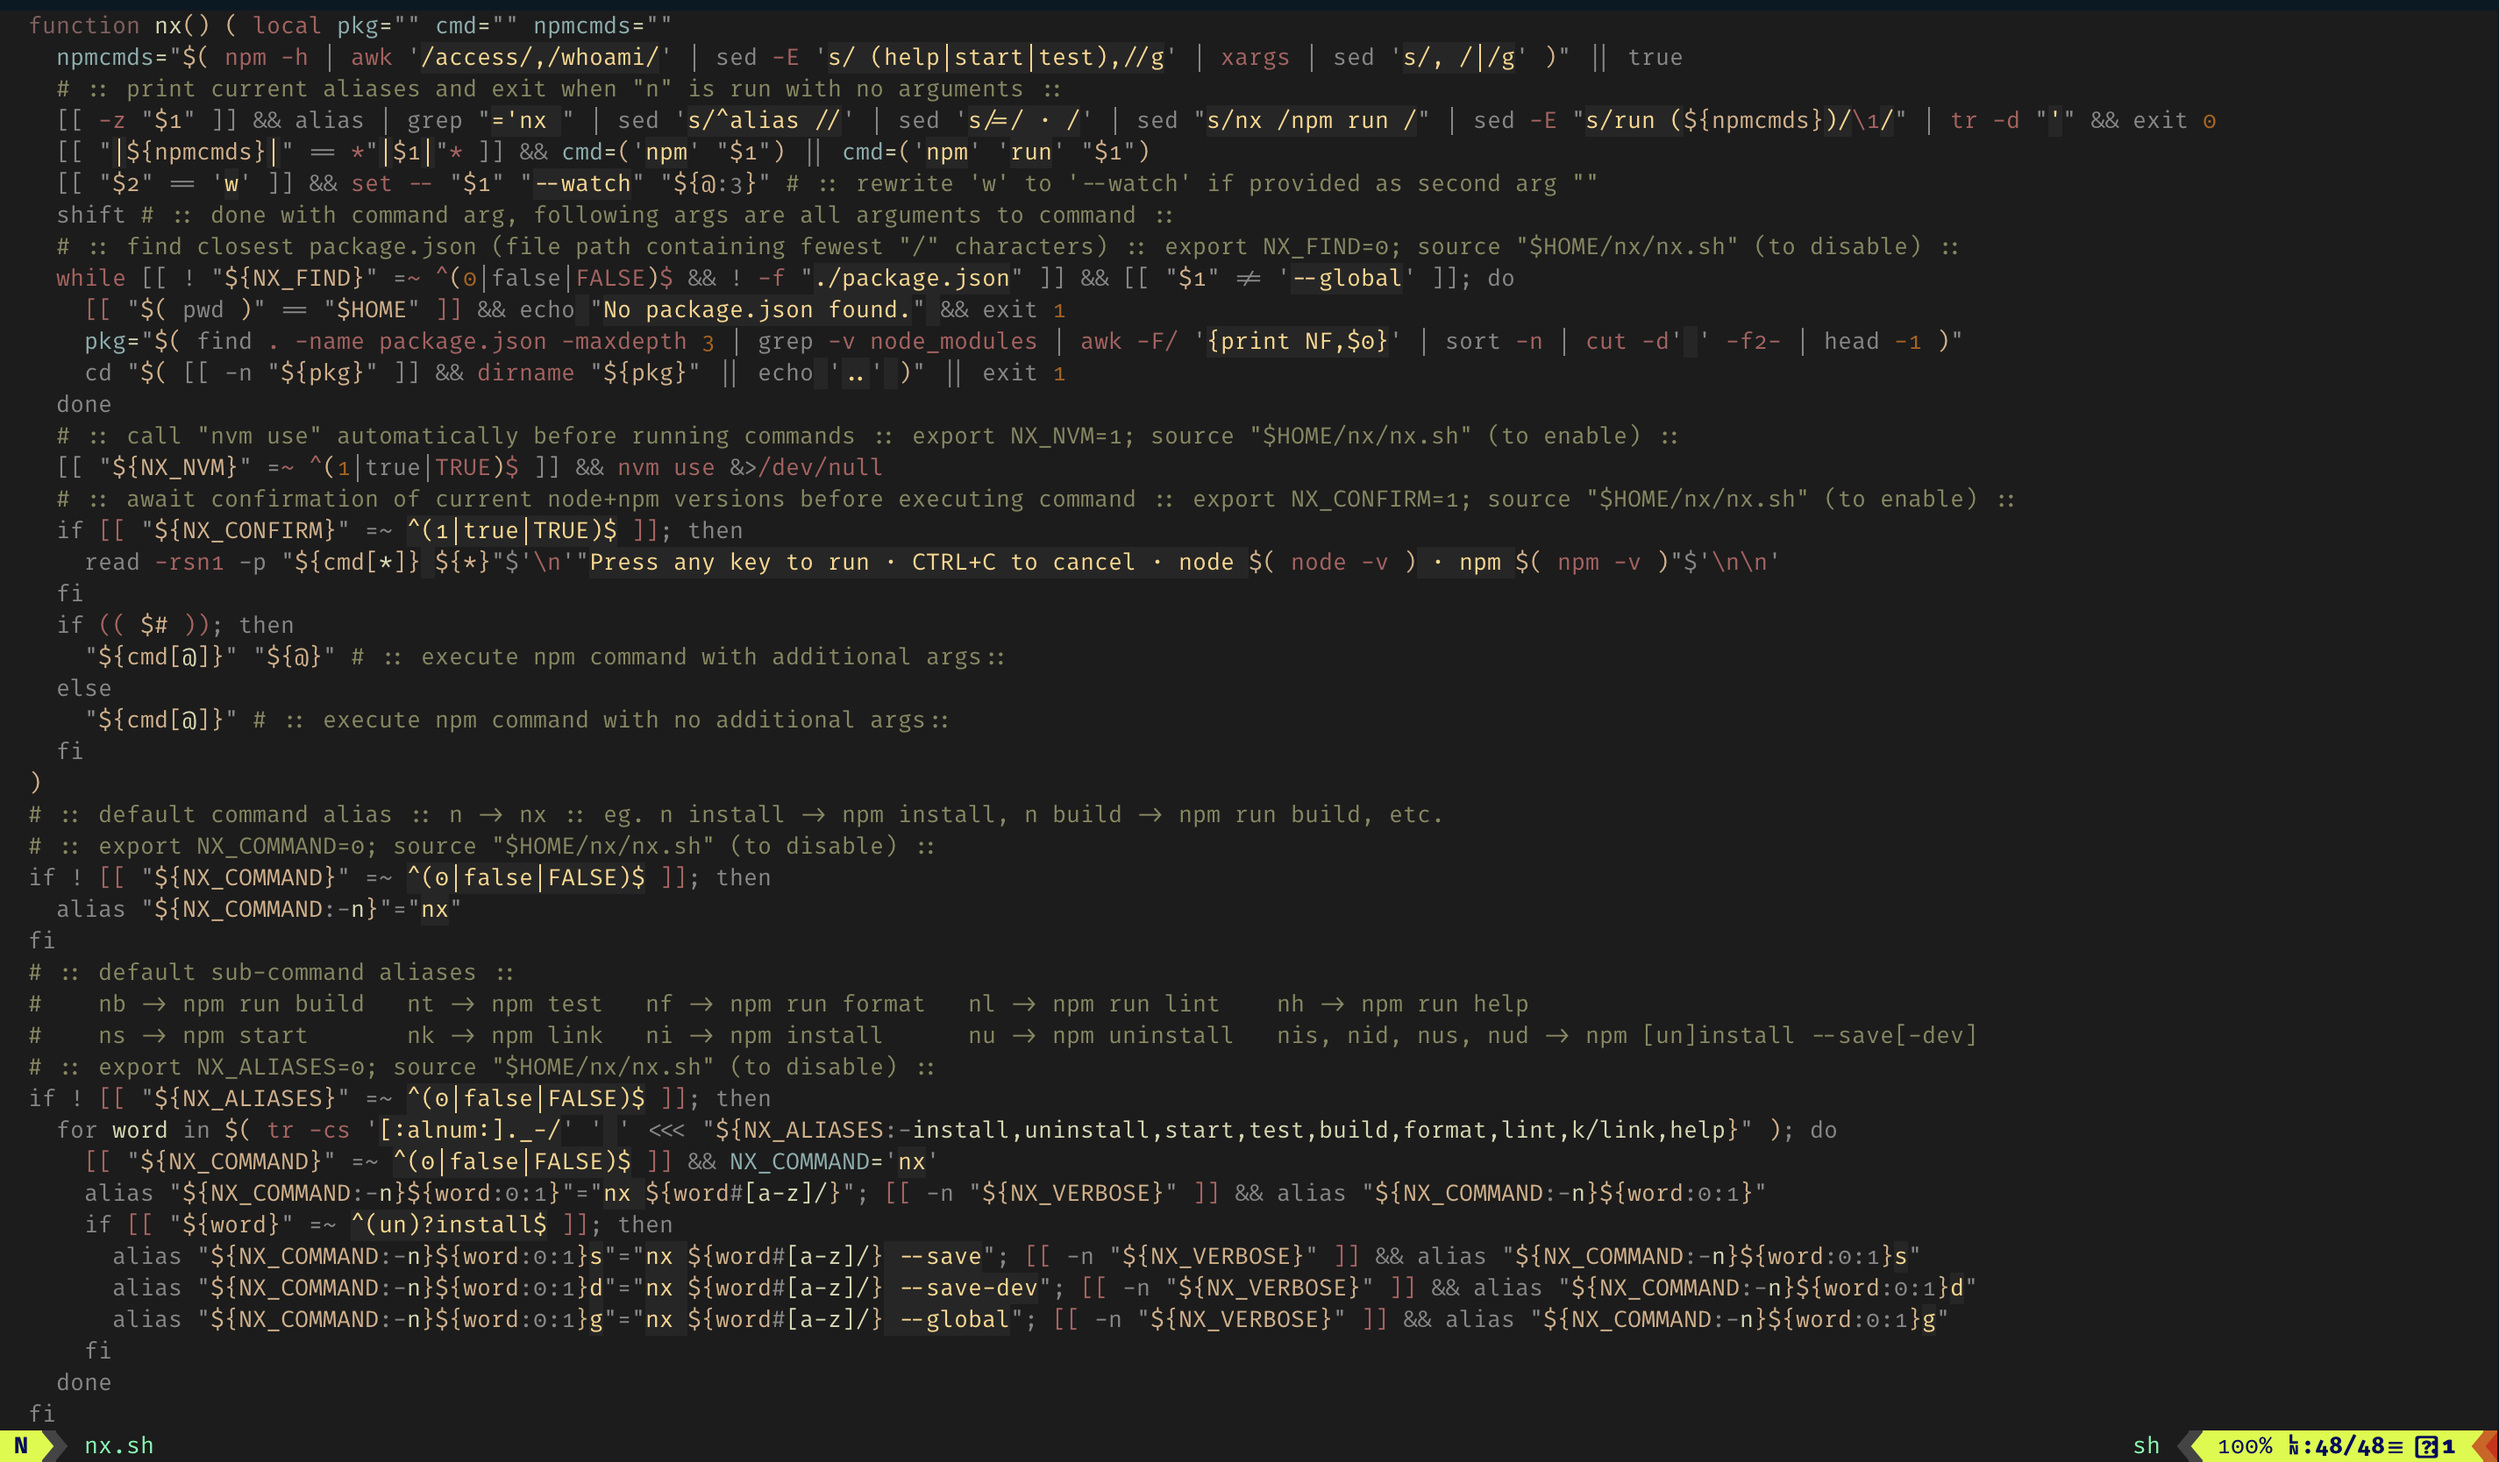
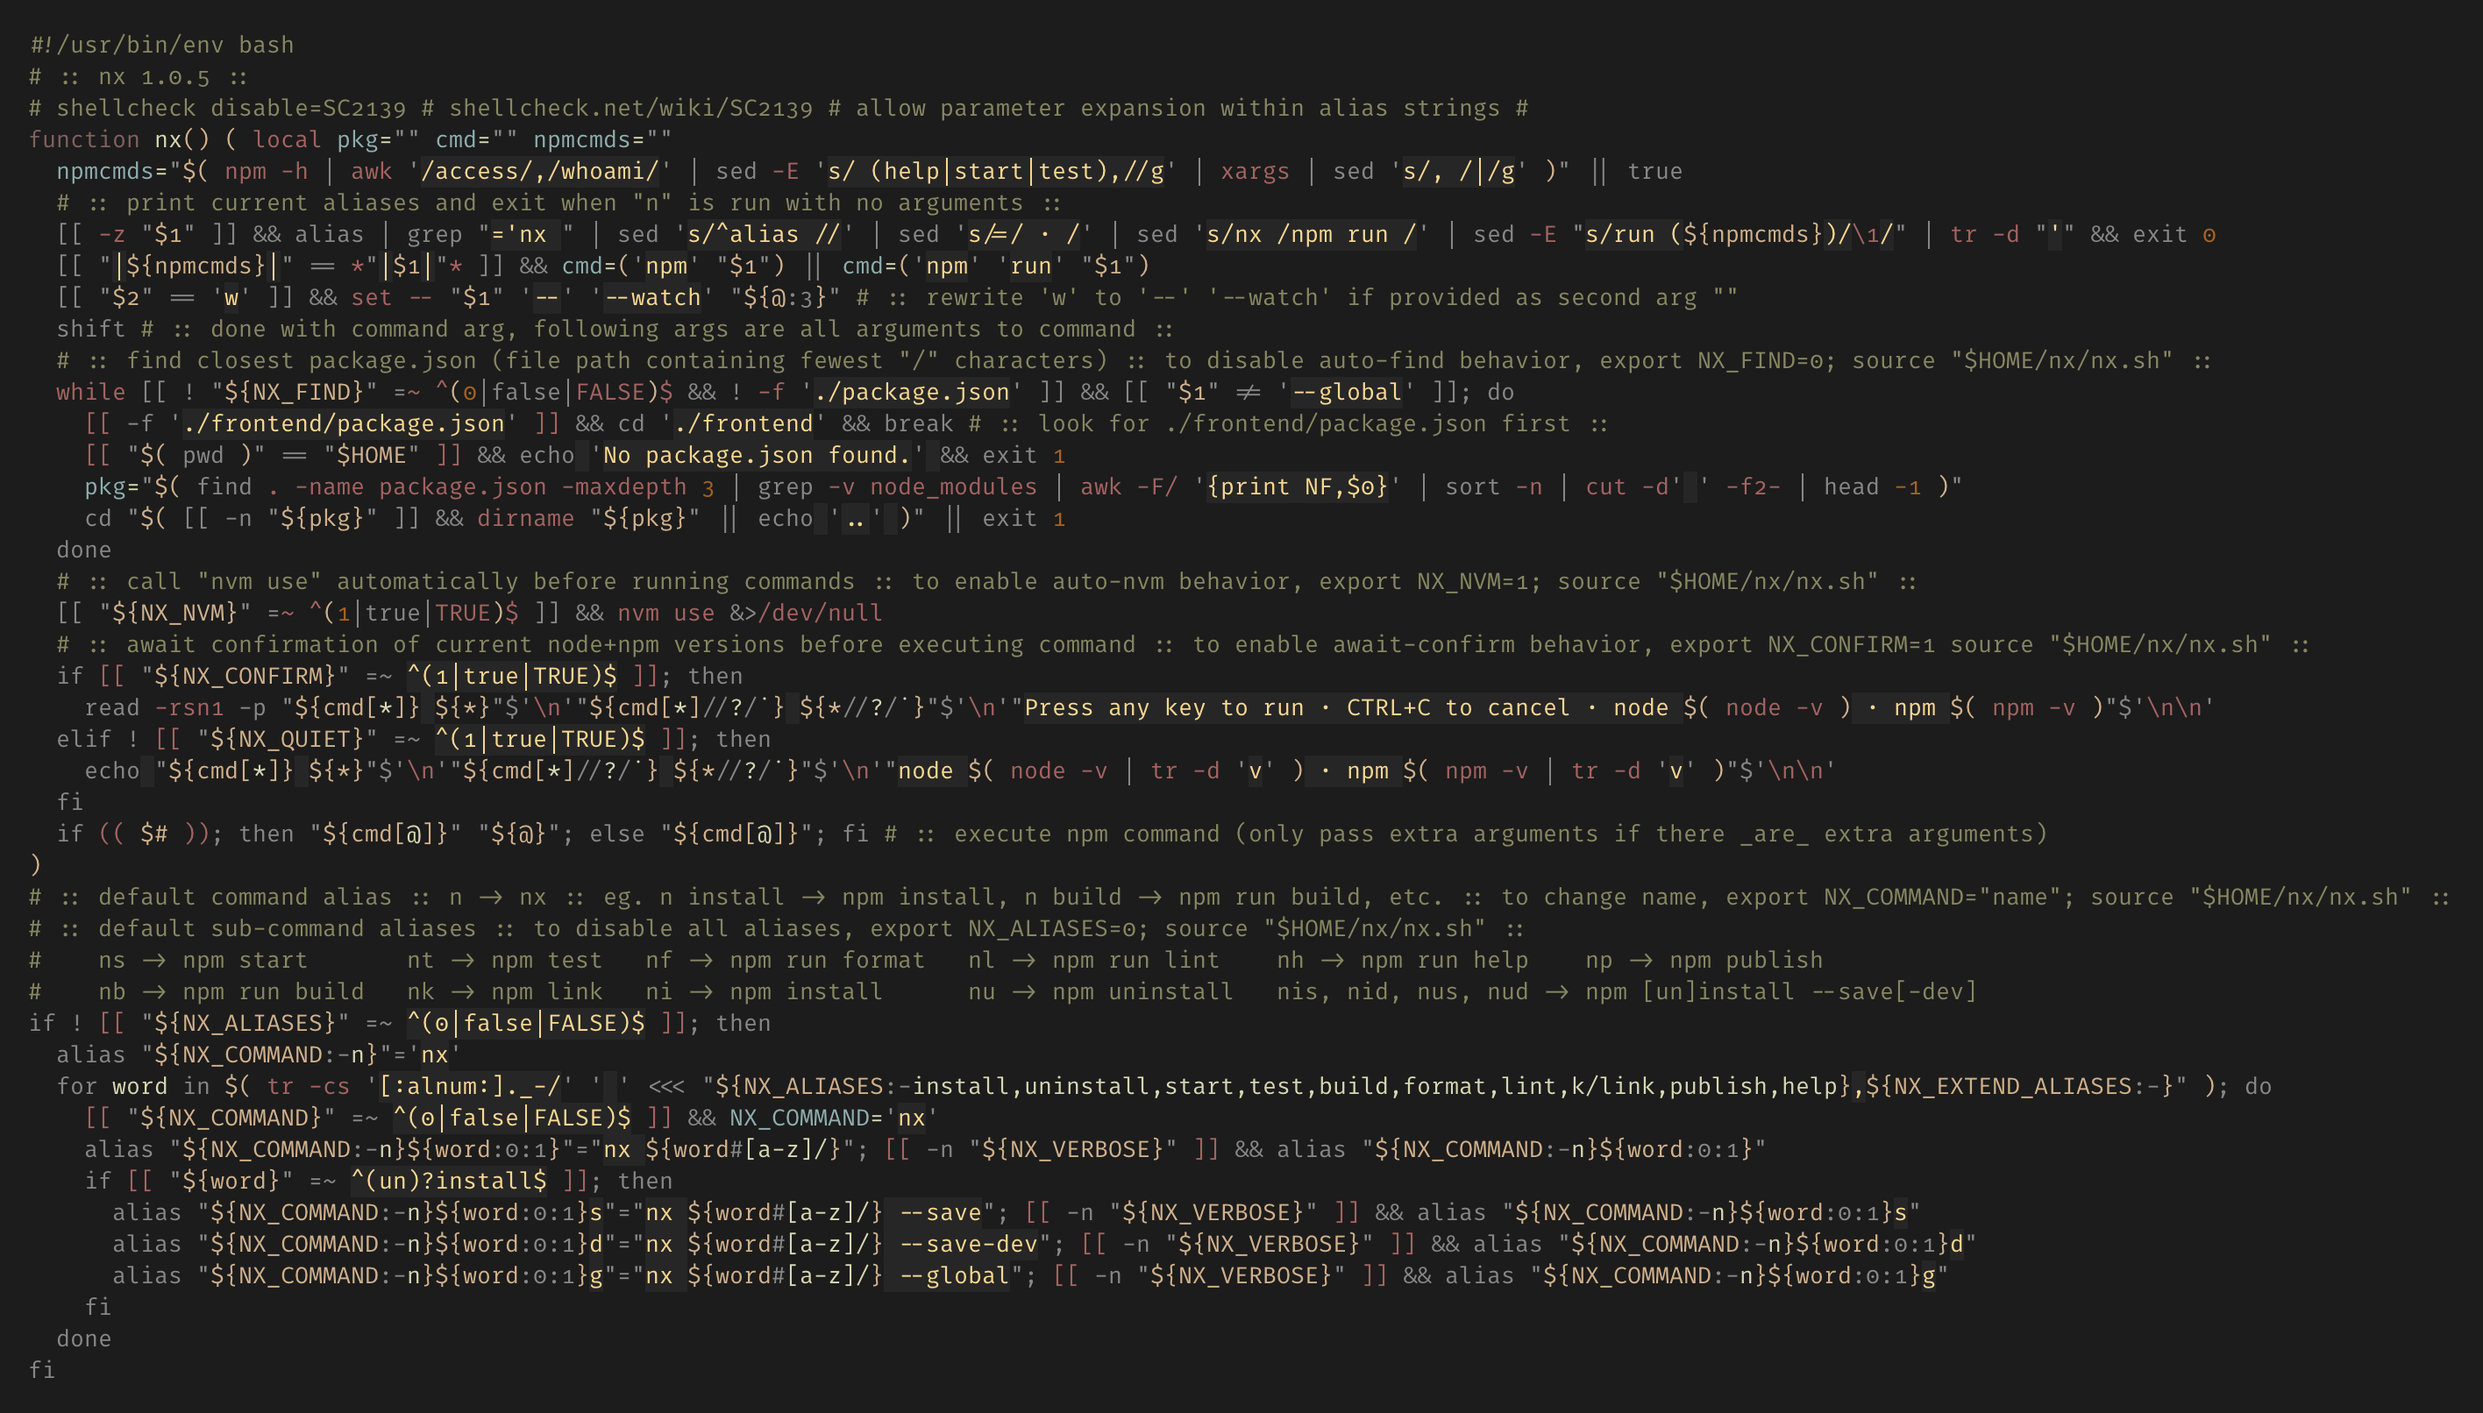
1.0.5 :: fix --watch aliasing / readme improvements

diff --git a/README.md b/README.md
@@ -1,4 +1,4 @@
-A minimalist command runner for npm packages, with a focus on developer ergonomics.
+A minimalist command runner for npm packages, with a focus on dev-ergonomics.
 
 ```
  __   __    __  __
@@ -17,35 +17,38 @@ A minimalist command runner for npm packages, with a focus on developer ergonomi
 With a default setup of `source $HOME/nx/nx.sh` in your dotfile of choice, it will add these aliases to any shell:
 
 ```sh
-n           ->  # show list of currently configured nx aliases
-n <cmd>     ->  npm <cmd> OR npm run <cmd>  # nx intelligently adds `run`
-                                            # only when necessary, but you
-ns <opts>   ->  npm run start <opts>        # may use it if you prefer
-nb <opts>   ->  npm run build <opts>
-nf <opts>   ->  npm run format <opts>
-nl <opts>   ->  npm run lint <opts>
-nk <opts>   ->  npm run link <opts>
-nt <opts>   ->  npm run test <opts>
-nt w <opts> ->  npm run test --watch <opts>
-#  w may be added to any nx command in place of --watch
+n  ···········>  show list of available nx aliases
 
-ni <pkg>    ->  npm install <pkg>
-nu <pkg>    ->  npm uninstall <pkg>
-nis <pkg>   ->  npm install --save <pkg>
-nus <pkg>   ->  npm uninstall --save <pkg>
-nid <pkg>   ->  npm install --save-dev <pkg>
-nud <pkg>   ->  npm uninstall --save-dev <pkg>
-nig <pkg>   ->  npm install --global <pkg>
-nug <pkg>   ->  npm uninstall --glboal <pkg>
+n CMD ARGS  ··>  npm CMD │ npm run CMD ┐ nx intelligently adds "run"
+                                       │ only when necessary, but you
+ns  ····>  npm run start               │ may be explicit if you prefer
+nb  ····>  npm run build               └──────────────────────────────
+nf  ····>  npm run format
+nl  ····>  npm run lint
+np  ····>  npm run publish
+nk  ····>  npm run link
+nh  ····>  npm run help
+nt  ····>  npm run test
+nt w  ··>  npm run test -- --watch
+   └─ may be added to any nx command in place of --watch
+
+ni  NAME  ····>  npm install NAME
+nu  NAME  ····>  npm uninstall NAME
+nis NAME  ····>  npm install   --save NAME
+nus NAME  ····>  npm uninstall --save NAME
+nid NAME  ····>  npm install   --save-dev NAME
+nud NAME  ····>  npm uninstall --save-dev NAME
+nig NAME  ····>  npm install   --global NAME
+nug NAME  ····>  npm uninstall --global NAME
 ```
 
 Of these aliases, only `nl` exists as a pre-existing Bash command (<https://ss64.com/bash/nl.html>), used for prefixing file lines with line numbers. If you'd like to disable this particular `nx` alias so that the built-in `nl` is not overridden, use this configuration in your shell rc file:
 
 ```bash
-export NX_ALIASES=install,uninstall,start,test,build,format,k/link,help; source "$HOME/nx/nx.sh"
+export NX_ALIASES=install,uninstall,start,test,build,format,k/link,publish,help; source "$HOME/nx/nx.sh"
 ```
 
-`nx` is only 50 lines of code (with comments!) — if you're interested in knowing exactly what will be running on your system, peruse it [here](https://github.com/evnp/nx/blob/main/nx.sh). Any project that touts minimalism should strive to be understood completely within a few minutes; this is, and will remain, a goal of `nx`.
+`nx` is less than 50 lines of code (with comments!) — if you're interested in knowing exactly what will be running on your system, peruse it [here](https://github.com/evnp/nx/blob/main/nx.sh). Any project with minimalism as a core tenet should strive to be understood completely within a few minutes. This is, and will remain, a goal of `nx`.
 
 Setup
 -----
@@ -81,13 +84,13 @@ alias nu="nx uninstall"  # -> npm uninstall
 ```
 If you'd like to opt out of these default aliases or customize them, use env vars when initializing `nx` to configure:
 ```sh
-# to opt out of `n` alias and simply use the full command `nx`:
+# to opt out of "n" abbreviated command and instead use the full command "nx":
 export NX_COMMAND=0; source "$HOME/nx/nx.sh"
 
-# to opt out of nx aliasing altogether:
+# to opt out of all aliases provided by nx:
 export NX_COMMAND=0; export NX_ALIASES=0; source "$HOME/nx/nx.sh"
 
-# to use the custom command `myencmd` to invoke nx instead of `n`:
+# to use the custom command "myencmd" to invoke nx instead of "n":
 export NX_COMMAND=myencmd; source "$HOME/nx/nx.sh"
 > alias myencmd="nx"
 
@@ -97,8 +100,7 @@ export NX_ALIASES=build,push,deploy; source "$HOME/nx/nx.sh"
 > alias nb="nx build"
 > alias np="nx push"
 > alias nd="nx deploy"
-# note: this overrides the set of default aliases entirely, so you
-#       will need to redefine them explicitly if some are desired
+# note: this overrides the default set of nx aliases entirely
 
 # to define an alias whose shortcut does not match its first letter:
 export NX_ALIASES=build,x/specialthing,deploy; source "$HOME/nx/nx.sh"
@@ -106,8 +108,14 @@ export NX_ALIASES=build,x/specialthing,deploy; source "$HOME/nx/nx.sh"
 > alias nb="nx build"
 > alias nx="nx specialthing"
 > alias nd="nx deploy"
-```
 
+# to extend the default set of nx aliases with your own:
+export NX_EXTEND_ALIASES=deploy,x/specialthing; source "$HOME/nx/nx.sh"
+> alias nd="nx deploy"
+> alias nx="nx specialthing"
+# ... and all other default nx aliases will also remain available
+
+```
 
 By default, if `nx` does not detect a `package.json` file within the directory it is being invoked from, it will search for one within directories up to 2 levels below, and an arbitrary number of levels above, exiting immediately if it reaches your home directory. This allows you to run `nx` commands from anywhere within a project with this very common directory structure, or similar project structures:
 ```sh
@@ -143,11 +151,11 @@ export NX_VERBOSE=1; source "$HOME/nx/nx.sh"
 
 Why?
 ----
-One of the things that makes me happiest is building small tools that I use every day. This seems to be the case even when I'm the _only_ one that uses them! Every time those characters jolt forth, invoking something from the void that hadn't existed before, I feel a twinge of satisfaction.
+The things that spark joy most reliably for me are small tools that I've built myself, for myself, _especially_ when they end up becoming tools I use every day. This seems to be the case even when I'm the _only_ one that uses them! Each time those muscle-remembered keystrokes invoke something from the void that hadn't existed before, I feel a twinge of satisfaction.
 
-The most effective way I've found to accomplish this comes in the form of small bash scripts, composed in traditional unix fashion. Every time I work on one of these scripts, I can feel more of the bash surface-area sticking in my mind. This has had a noticeable side effect of improving my abilities in everyday shell-scripting tasks.
+The most effective way I've found to accomplish this comes in the form of small bash scripts, composed in traditional unix fashion. When I work on one of these scripts, I can feel the bash surface-area slowly solidifying in my mind. This has had a wonderful side-effect of bolstering my everyday shell-scripting abilities in a way nothing else has.
 
-Keeping things small can sometimes be a satisfying challenge. With `nx`, this has resulted in a program that fits onto a single MacBook Pro screen, 13", 13pt font size, without compromising on the desired featureset:
+Keeping things small can be a satisfying challenge. The right constraints are the difference between a chore and a puzzle. With `nx`, this approach has resulted in a program that fits onto a single MacBook 13" screen at 13pt font size, without compromising on the desired featureset:
 
 ![full nx source code](https://raw.githubusercontent.com/evnp/nx/main/source.png)
 
